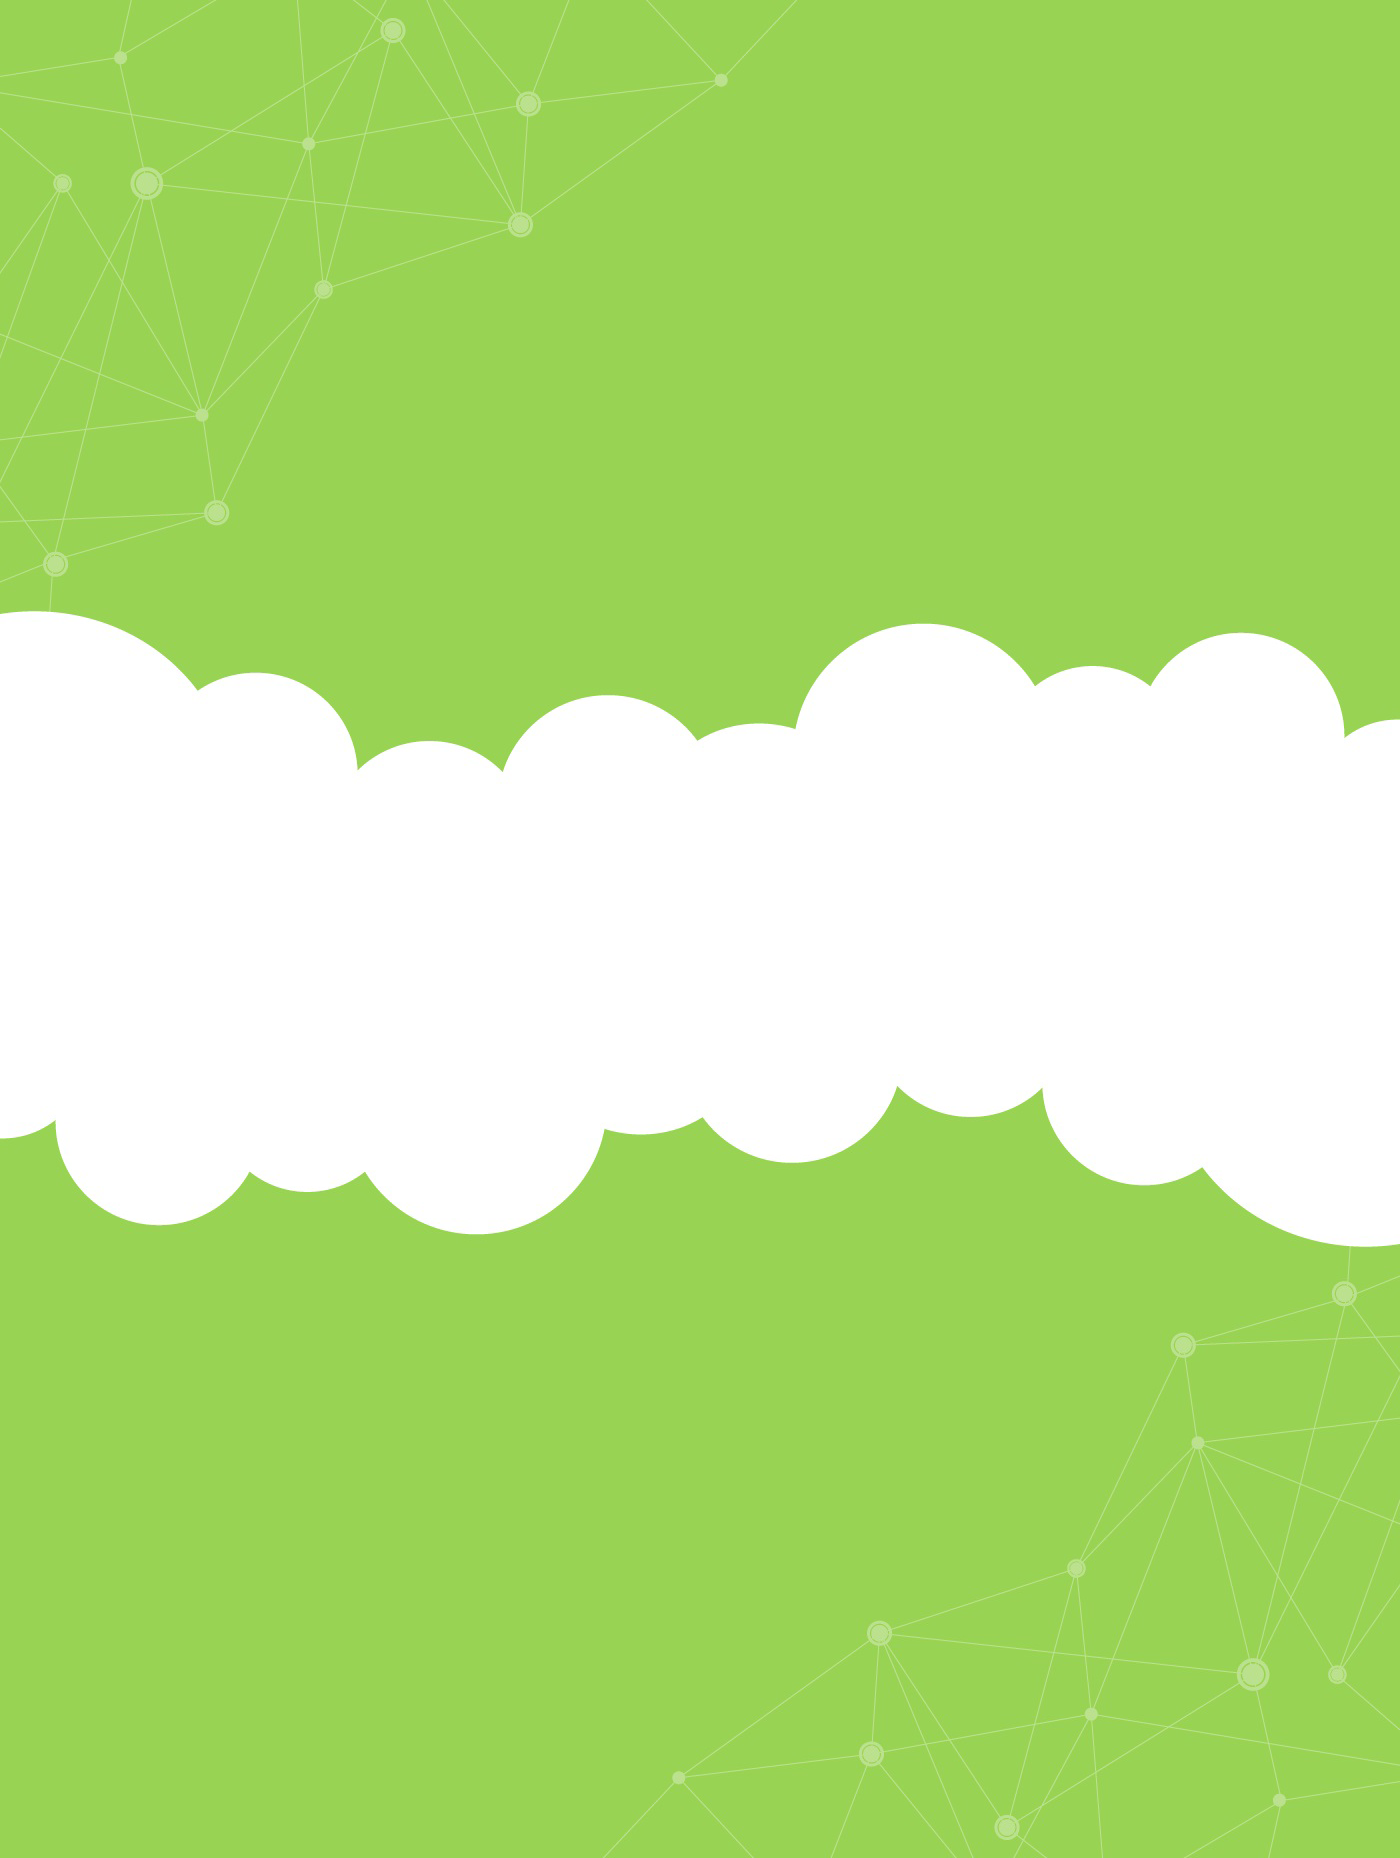
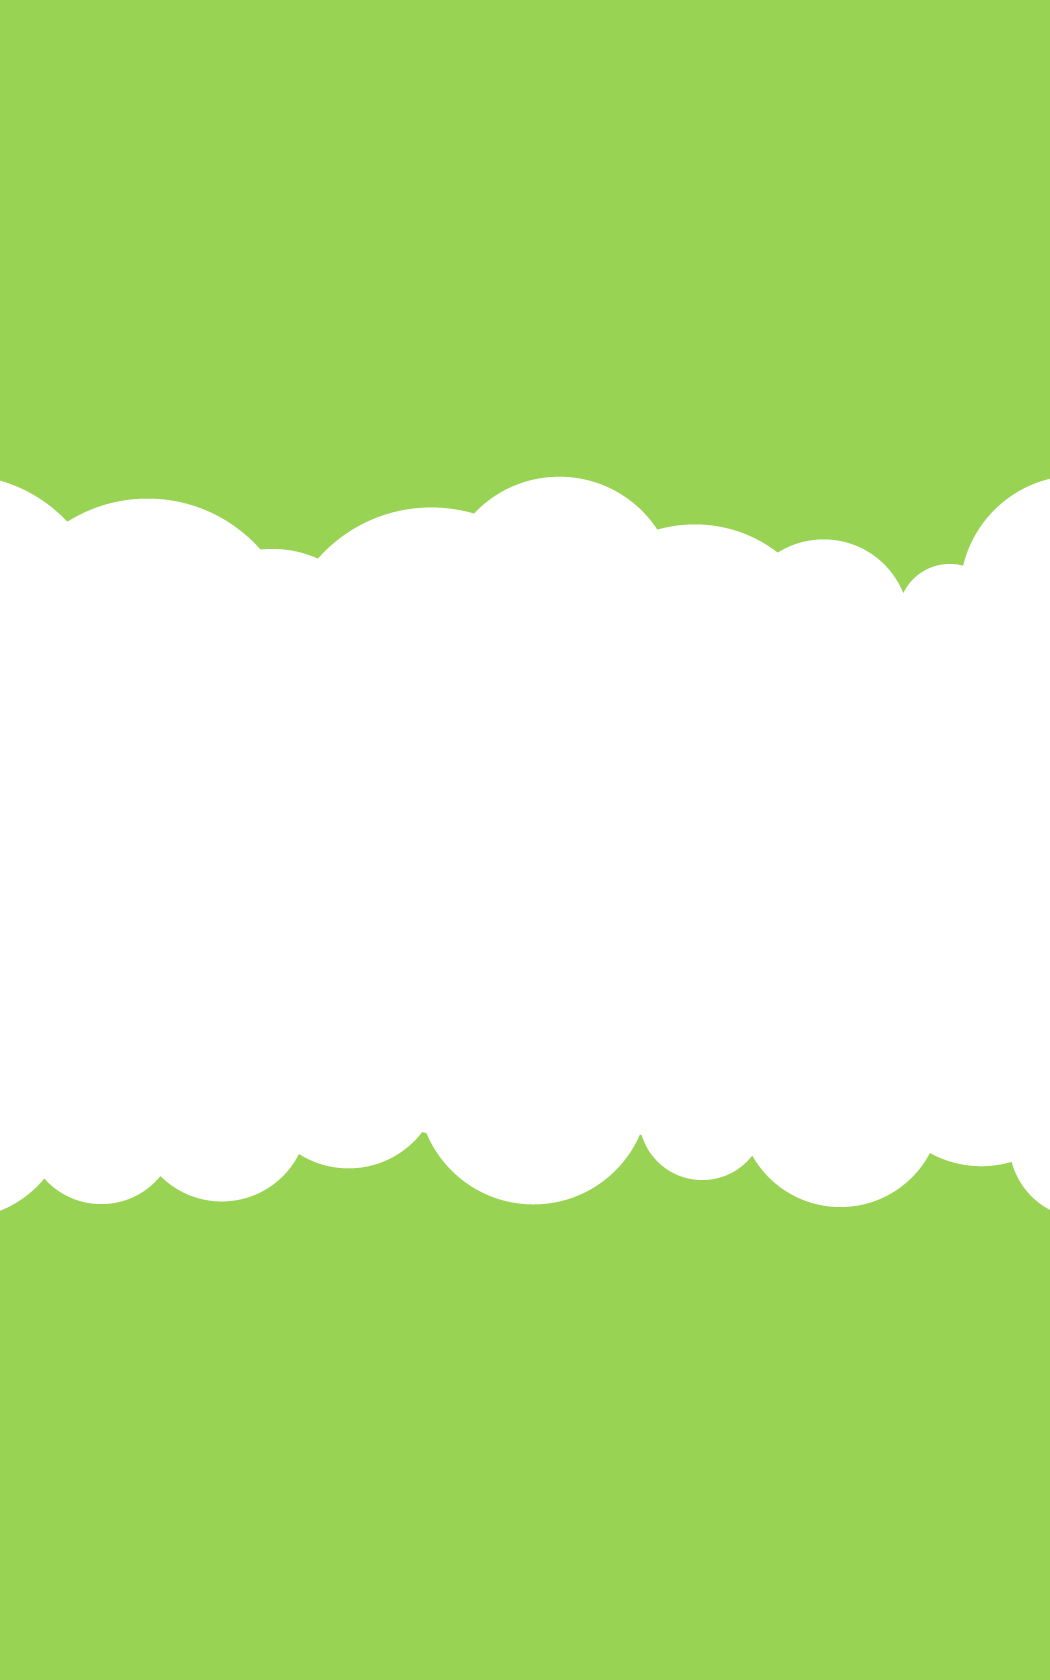
Updated visual.

diff --git a/src/discipuluz-app.html b/src/discipuluz-app.html
@@ -2,6 +2,9 @@
 <link rel="import" href="../bower_components/font-roboto/roboto.html">
 <link rel="import" href="../bower_components/app-route/app-location.html">
 
+<link rel="import" href="../bower_components/neon-animation/animations/slide-from-left-animation.html">
+<link rel="import" href="../bower_components/neon-animation/animations/fade-out-animation.html">
+
 <link rel="import" href="../bower_components/ce-page-manager/ce-page-manager.html">
 
 <link rel="import" href="discipuluz-utils/discipuluz-localize-behavior.html">
@@ -55,19 +58,22 @@
 				margin-top: 0;
 			}
 			.bg.large{
-				margin-top: -30vw;
+				margin-top: -10vh;
 			}
 		</style>
 
 		<app-location route="{{route}}"></app-location>
 
-		<img class$="bg [[responsiveClass('small', 'large')]]" src="../images/bg.jpg">
+		<img class$="bg [[responsiveClass('small', 'large')]]" src="/images/bg[[responsiveClass('-mobile')]].png">
 		<discipuluz-header page="[[page]]"></discipuluz-header>
 		<discipuluz-content page="[[page]]">
 			<ce-page-manager
 				id="pagemanager"
 				site-map="/src/sitemap.json"
-				pages-dir="/src/discipuluz-pages">
+				pages-dir="/src/discipuluz-pages"
+				entry-animation="slide-from-left-animation"
+				exit-animation="fade-out-animation"
+				animate-initial-selection>
 			</ce-page-manager>
 		</discipuluz-content>
 		<discipuluz-footer page="[[page]]"></discipuluz-footer>
@@ -93,6 +99,7 @@
 	  			ga('create', 'UA-78017331-1', 'auto')
 
 				this.$.pagemanager.addEventListener('page-change', (e) => {
+					//setting page property
 					page = e.detail.path.split('/')[1] || '__inicio__'
 					this.set('page', page)
 

diff --git a/src/discipuluz-layout/discipuluz-content.html b/src/discipuluz-layout/discipuluz-content.html
@@ -48,11 +48,11 @@
 			<content></content>
 		</paper-card>
 	</div>
-<!-- 
+	
 	<div class="layout moto">
 		<p class="layout horizontal center-center">[[localize('moto')]]</p>
 		<p class="layout horizontal center-center">[[localize('moto-author')]]</p>
-	</div> -->
+	</div>
 
 	</template>
 
